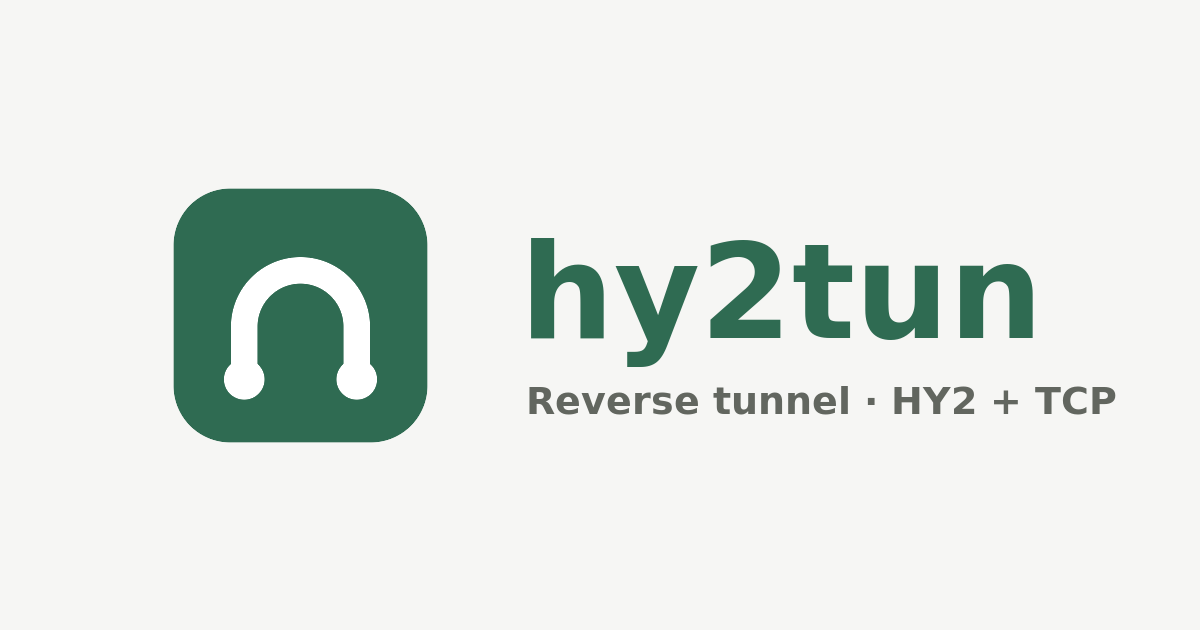
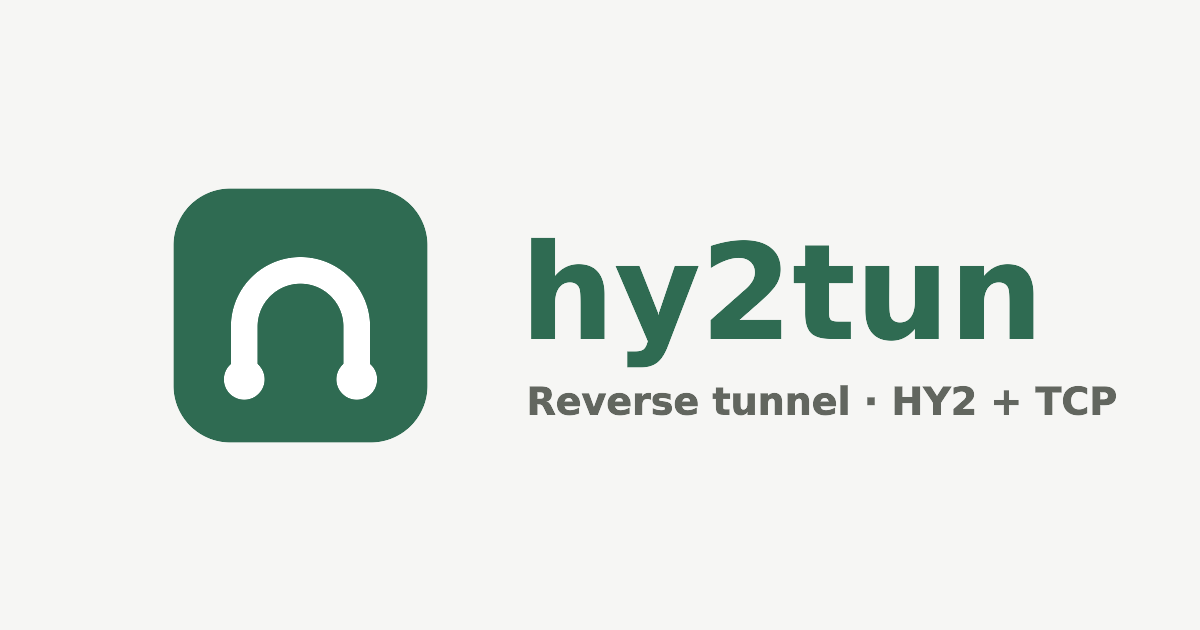
fix(brand): outline wordmarks and sync brand docs

diff --git a/assets/brand/README.md b/assets/brand/README.md
@@ -13,18 +13,29 @@ build outputs, not edit sources.
 | `mark-dark.svg` | Dark-mode badge (`#78b493` badge, `#0f1511` symbol). |
 | `mark-mono.svg` | Single-color transparent mark for monochrome use. |
 | `app-icon.svg` | Full-bleed opaque square for installed/app rasters; the OS applies its outer mask. |
-| `lockup-light.svg`, `lockup-dark.svg` | Horizontal mark plus `hy2tun` wordmark for the READMEs. |
+| `lockup-light.svg`, `lockup-dark.svg` | Horizontal mark plus outlined `hy2tun` wordmark for the READMEs. |
 | `og-1200x630.svg` | Source for the 1200x630 social preview. |
+
+The `hy2tun` wordmark in the lockups and the OG wordmark/tagline are outlined
+DejaVu Sans paths, so they render identically without any font installed on
+the viewer's machine. The canonical target is DejaVu Sans SemiBold; that face
+is not installed in the build environment, so the outlines use DejaVu Sans
+Bold, the locally available closest weight (and the same face the generated
+rasters already used). The Web consoles keep rendering their wordmark as live
+text.
 
 ## Generated variants
 
 `scripts/icons/build-icons.sh` renders the masters into:
 
-- `assets/brand/social-preview.png` (exactly 1200x630);
-- Web favicons, Apple touch icon, PWA icons, `favicon.svg`, and
-  `site.webmanifest` in both `internal/webui/serverui/static/` and
-  `internal/webui/clientui/static/`;
-- `assets/brand/windows/hy2tun.ico`, plus the generated
+- `assets/brand/social-preview.png` and the identical
+  `assets/brand/og-1200x630.png` (both 1200x630), plus the identical
+  `docs/assets/social-preview.png` operator copy;
+- Web favicons, Apple touch icon, PWA icons, `favicon.svg`,
+  `site.webmanifest`, and copies of `mark.svg` / `mark-dark.svg` in both
+  `internal/webui/serverui/static/` and `internal/webui/clientui/static/`;
+- `assets/brand/windows/hy2tun.ico`, the checked-in `hy2tun.rc` /
+  `hy2tund.rc` resource scripts, and the generated
   `cmd/hy2tun/hy2tun_windows_amd64.syso` and
   `cmd/hy2tund/hy2tund_windows_amd64.syso` resources;
 - the 32x32 LuCI PNG at
@@ -41,7 +52,8 @@ Required host tools: ImageMagick (`convert`, `identify`) and mingw-w64 binutils
 (`x86_64-w64-mingw32-windres`, plus `x86_64-w64-mingw32-objdump` for the
 checks). The check script also uses `file` and `python3` to inspect the Windows
 resources and validate the web manifest. On Debian/Ubuntu these are
-`imagemagick`, `binutils-mingw-w64-x86-64`, `file`, and `python3`.
+`imagemagick`, `binutils-mingw-w64-x86-64`, `file`, and `python3`. The outlined
+SVG sources need no font package or font tooling at build or render time.
 
 ## LuCI theme limitation
 
@@ -52,8 +64,9 @@ theme-specific CSS or JavaScript is added to force the icon.
 
 ## Social preview
 
-`docs/assets/social-preview.png` is a byte-for-byte copy of
-`assets/brand/social-preview.png` for operator upload and documentation use.
+`assets/brand/social-preview.png`, `assets/brand/og-1200x630.png`, and
+`docs/assets/social-preview.png` are the same 1200x630 render. The
+`docs/assets` copy is the operator-uploadable file.
 
 Uploading the GitHub repository social preview is manual: repository
 **Settings → General → Social preview → Upload image**. GitHub does not expose
@@ -67,9 +80,10 @@ Regenerating the PNG does not update GitHub; re-upload it after changes.
 | Accent | `#2f6b52` | `#78b493` | Badge / primary mark |
 | Symbol | `#ffffff` | `#0f1511` | Negative-space symbol |
 | Neutral | `#62665f` | `#a4aaa5` | Secondary wordmark text |
-| Surface | `#ffffff` | `#161917` | Background where needed |
+| Surface (as built) | `#f6f6f4` | `#161917` | OG/manifest background and surfaces |
 
-The style is flat vector only: no gradients, shadows, bevels, photographic
+The OG image and Web manifest use the as-built warm surface `#f6f6f4`. The
+style is flat vector only: no gradients, shadows, bevels, photographic
 texture, or text inside the app mark. Keep the symbol centered with 12% padding
 and legible at 16 px. The light app icon uses a white symbol on `#2f6b52`; dark
 mode uses `#0f1511` on `#78b493`.
